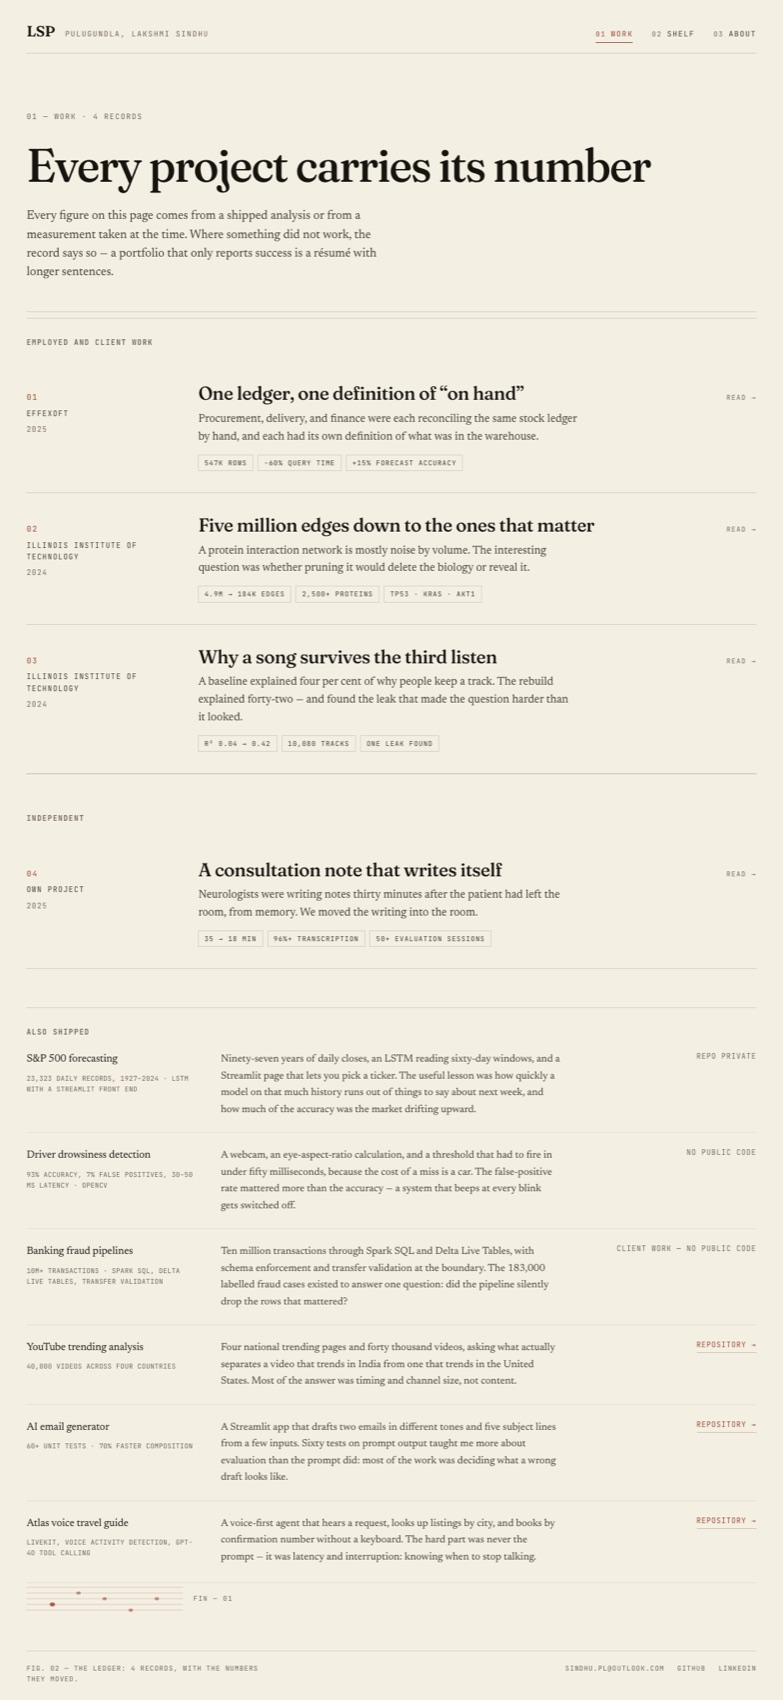
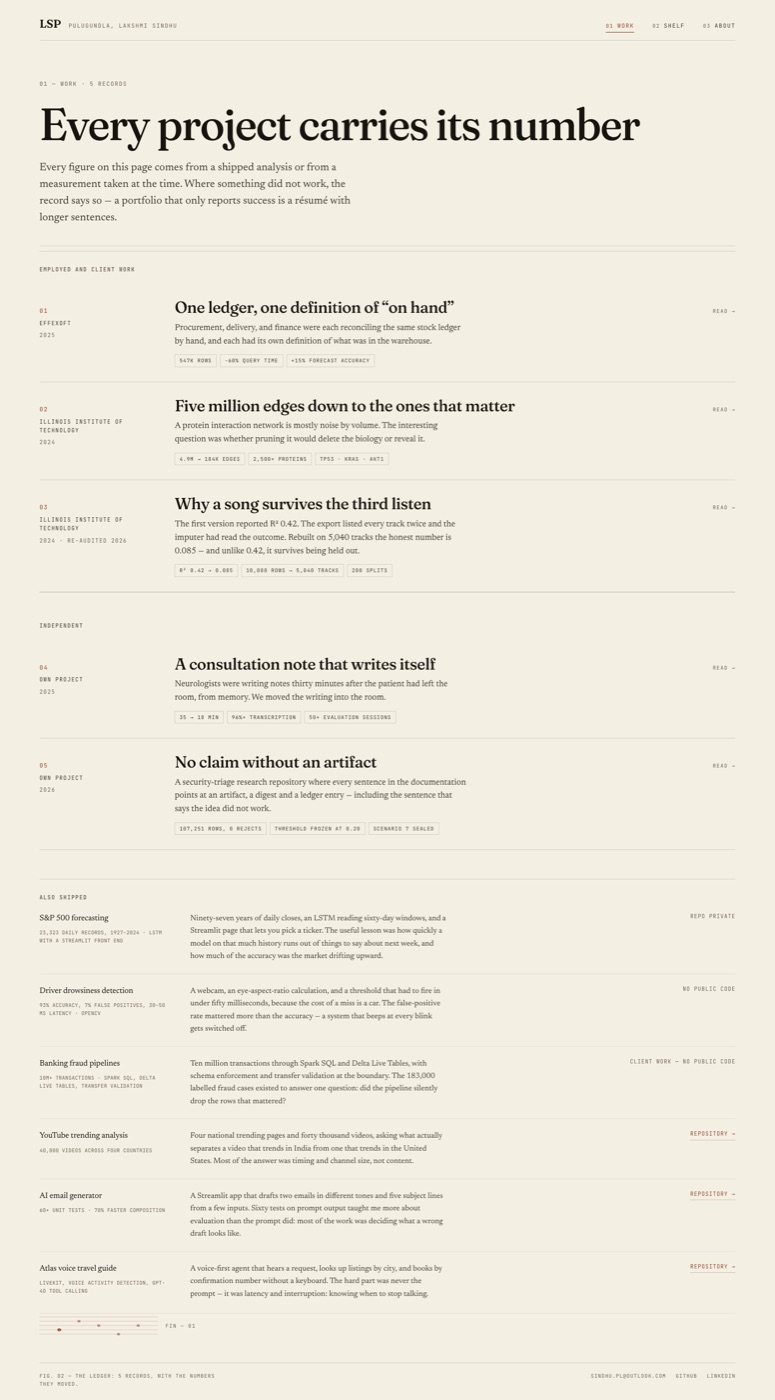
content: correct the Spotify record, add ClueLattice, show the ledger count
Two records were checked against their own repositories and did not survive
contact.

The Spotify page claimed R² 0.42 and 10,080 tracks. The repository's corrected
re-analysis shows 10,080 *rows* for 5,040 distinct tracks (a non-unique join
listed every track twice), R² ≈ 0.085, and a held-out mean of 0.05 over 200
splits — the 0.42 was the leaky number, and 'it does not predict at all' was a
scale artefact on the raw millisecond response. The record now tells that story
instead of the flattering one.

ClueLattice is added as record 05 under Independent: a security-triage research
repository whose strongest result is a refuted hypothesis, with the claim ledger
and sealed holdout as the substance rather than an afterthought.

Also fixes the record counter, which hard-coded 'of 04' and printed
'Record 05 / 04' on a five-record ledger.

diff --git a/src/data/records.ts b/src/data/records.ts
@@ -107,33 +107,33 @@ export const records: WorkRecord[] = [
     title: 'Why a song survives the third listen',
     org: 'Illinois Institute of Technology',
     place: 'Chicago',
-    period: '2024',
-    role: 'Regression modelling coursework, extended',
-    deck: 'A baseline explained four per cent of why people keep a track. The rebuild explained forty-two — and found the leak that made the question harder than it looked.',
-    chips: ['R² 0.04 → 0.42', '10,080 tracks', 'one leak found'],
+    period: '2024 · re-audited 2026',
+    role: 'Regression coursework, then its own audit',
+    deck: 'The first version reported R² 0.42. The export listed every track twice and the imputer had read the outcome. Rebuilt on 5,040 tracks the honest number is 0.085 — and unlike 0.42, it survives being held out.',
+    chips: ['R² 0.42 → 0.085', '10,080 rows → 5,040 tracks', '200 splits'],
     figures: [
-      { value: '0.04', label: 'R² of the first, untransformed model' },
-      { value: '0.42', label: 'R² after transformation, interactions, and shrinkage' },
-      { value: '10,080', label: 'tracks in the working sample' },
+      { value: '0.085', label: 'R² of the rebuilt model: audio, genre and artist' },
+      { value: '0.05', label: 'mean held-out R² across 200 random splits' },
+      { value: '0.26', label: 'percentage points the three audio attributes add' },
     ],
     situation: [
-      'The dataset had ten thousand tracks and the audio features every streaming platform exposes: danceability, energy, tempo, valence, acousticness, plus artist and genre metadata. Engagement was the target.',
-      'The first model was a straight OLS on raw features. It explained four per cent of variance, which is the correct answer to the wrong question.',
+      'Ten thousand rows of Spotify song attributes — danceability, energy, tempo, valence, plus artist and genre — and one target: how long a track actually gets played, stored as cumulative milliseconds.',
+      'The first version reported R² 0.42 from a transformed OLS with interactions and shrinkage. It looked like a good result, which is exactly why it took a year to go back and check it.',
     ],
     work: [
-      'Log-transformed the skewed target, added interactions between energy and tempo and between artist popularity and genre, then moved to Ridge and Lasso with cross-validated shrinkage so the interaction terms earned their place.',
-      'Then diagnostics rather than more features: residual plots by genre, leverage points by artist, and a hard look at what “popular” actually encodes.',
+      'Audited the file before modelling it. Every track appeared exactly twice, identical in all 22 columns, because the rows had been joined on a non-unique key: 10,080 rows for 5,040 tracks. The imputer was worse — the KNN pass had been fitted over all 22 columns including the outcome, so 550 rows had been filled from their own target.',
+      'Rebuilt without imputation: 275 tracks missing audio features are excluded from the audio models and checked with an indicator model instead of being filled with invented values. Response on a log10 scale, predictors in natural units, effects reported per standard deviation, HC3 errors alongside the classical ones.',
     ],
     moved: [
-      'R² went from 0.04 to 0.42. Genre, artist popularity, tempo, and energy were the stable predictors across folds.',
-      'The more useful result was the leak: artist popularity is downstream of the outcome. A track is popular because people play it, so the model was partly predicting the thing it was trying to explain.',
+      'R² fell to 0.085 — and, unlike 0.42, it holds: over 200 random 70/30 splits the mean held-out R² is 0.05. Genre and artist carry 8.3 of those points and each adds over the other; the three audio attributes contribute 0.26 points, detectable at p = 0.004 and not clearly positive out of sample.',
+      'Splitting the response into its two behavioural margins changed the reading: energy raises the odds of being skipped by 1.22 per standard deviation, while among tracks played at least once its coefficient flips sign. Which of those is “the effect of energy” is a choice of question, not a fact about the data.',
     ],
     hard: [
-      'Once you remove the leak, the audio features explain much less — which is the honest finding and also the less quotable one.',
-      'The outliers were more interesting than the fit: tracks that are structurally ordinary and still get returned to.',
-      'Everything here is observational. It measures what correlates with repetition, not what causes it.',
+      'The old “the model does not predict at all” claim was wrong too, for a duller reason: on the raw millisecond scale the identical specification averages −0.024, negative in 82% of splits, because a handful of enormous values dominate squared error.',
+      'Unpruned, the same design reaches R² 0.57 — almost all of it 2,187 artist dummies fitted to 4,765 tracks — and scores worse than predicting the mean on held-out data. That is the number a leaderboard would have rewarded.',
+      'None of it is causal, and the information the file does not contain is the context: mood, device, playlist position, and who is listening.',
     ],
-    stack: ['R', 'Python', 'Ridge / Lasso', 'Regression diagnostics', 'Cross-validation'],
+    stack: ['R', 'RMarkdown', 'Robust standard errors', 'Specification curve', 'Leakage audit'],
     repo: { label: 'Enhanced-Spotify-Attribute-Analysis', url: 'https://github.com/Lakshmi-Sindhu-P/Enhanced-Spotify-Attribute-Analysis' },
   },
   {
@@ -170,6 +170,43 @@ export const records: WorkRecord[] = [
       'Evaluation needs the people whose work you are changing. A dashboard that says 96% is not the same as a neurologist saying it sounds like her.',
     ],
     stack: ['FastAPI', 'Medical ASR', 'LLM summarisation', 'PostgreSQL', 'Role-based access control', 'Evaluation design'],
+  },
+  {
+    slug: 'cluelattice',
+    index: '05',
+    group: 'independent',
+    title: 'No claim without an artifact',
+    org: 'Independent project',
+    place: 'Chicago',
+    period: '2026',
+    role: 'Design, build, evaluation',
+    deck: 'A security-triage research repository where every sentence in the documentation points at an artifact, a digest and a ledger entry — including the sentence that says the idea did not work.',
+    chips: ['107,251 rows, 0 rejects', 'threshold frozen at 0.20', 'scenario 7 sealed'],
+    figures: [
+      { value: '107,251', label: 'CTU-13 flows accepted with zero rejected rows' },
+      { value: '0.20', label: 'alert threshold frozen before the final measurement' },
+      { value: '0/9', label: 'reviewer budgets where uncertainty routing beat model score' },
+    ],
+    situation: [
+      'Security teams do not run out of alerts, they run out of reasons to believe one. The question I set was whether a provenance-first system — deterministic rules, supervised models, temporal features, and later an advisory LLM — could hand a junior reviewer a recommendation that separates what is observed, what is inferred, and what the telemetry simply does not support.',
+      'The constraint came before the code: no claim may exist without an artifact that backs it, and a claim that fails its own check stays in the ledger with the refutation attached.',
+    ],
+    work: [
+      'Built the bottom half of that system in Python 3.12 on a locked environment: two source adapters (IoT-23 Zeek, CTU-13 Argus) emitting typed canonical events, deterministic UUIDv5 identities, quality reports and checksum-backed dataset manifests — 107,251 rows accepted from Scenario 11 with zero rejects.',
+      'Three feature generations under a leakage contract — 26 flow columns, a scenario-local behavioral family, and a prior-only causal family — each frozen before comparison, with a sealed-scenario guard so the holdout could not be used for tuning.',
+      'A validation-only benchmark across rules, logistic regression, random forest, extra trees, histogram gradient boosting and a linear SVM, then a 450-policy simulated reviewer sweep. A results ledger is generated from JSON and machine-checked against an experiment registry, so the build fails if a claim drifts from its citation.',
+    ],
+    moved: [
+      'The useful result was negative: ranking alerts by model score retrieved at least as many true positives as threshold-distance “uncertainty” routing at zero of nine reviewer budgets, on all six stage-1 captures. A plausible idea, tested properly, and written down as refuted.',
+      'The causal feature family cut the cases both models missed from 68,353 to 64,986 — 4.9%, concentrated in one subgroup — and no single operating point improved. It is recorded as a localized hypothesis, not promoted into the policy.',
+    ],
+    hard: [
+      'Unknown-label rows dominate a real capture, and excluding them from supervised metrics shrinks the sample every claim rests on. Saying so costs headline numbers, which is the reason to say it.',
+      'The sealed scenario can be opened exactly once, so every experiment that touches it spends something that cannot be replaced.',
+      'The parts that would make it operational — finding aggregation, evidence retrieval, LLM triage, the human review tier — are planned and documented, not implemented. The repository says that in its first table rather than its last paragraph.',
+    ],
+    stack: ['Python 3.12', 'Pydantic', 'Parquet / DuckDB', 'scikit-learn', 'pytest', 'mypy', 'CI'],
+    repo: { label: 'ClueLattice', url: 'https://github.com/Lakshmi-Sindhu-P/ClueLattice' },
   },
 ];
 

diff --git a/src/data/profile.ts b/src/data/profile.ts
@@ -23,7 +23,7 @@ export const profile = {
 export const headlineMetrics = [
   { value: '−60%', label: 'inventory query time', note: '547K-row pipeline' },
   { value: '4.9M→184K', label: 'protein edges pruned', note: 'NSCLC network' },
-  { value: '0.04→0.42', label: 'R² on engagement', note: '10,080 tracks' },
+  { value: '0.085', label: 'R² after the leakage audit', note: '5,040 distinct tracks' },
 ] as const;
 
 export const positioning = `I build analytics systems that people actually use: pipelines with a named owner,
@@ -92,7 +92,7 @@ export const projects: Project[] = [
     year: '2024',
     outcome:
       'A baseline that explained 4% of engagement variance, rebuilt until it explained 42% — and a clear answer about which audio features matter.',
-    metrics: ['R² 0.04→0.42', '10,080 tracks'],
+    metrics: ['R² 0.42 → 0.085', '10,080 rows → 5,040 tracks'],
     method:
       'Log-transformed targets, interaction terms, and Ridge/Lasso regularisation with cross-validated shrinkage. Genre, artist popularity, tempo, and energy were the stable predictors; the outliers were more interesting than the fit.',
     stack: ['R', 'Python', 'Ridge / Lasso', 'Regression diagnostics'],

diff --git a/README.md b/README.md
@@ -37,7 +37,7 @@ Node 22+ is required (Astro 7). In this workspace `~/.npm` is not writable, so b
 | Route | What it is |
 | --- | --- |
 | `/` | The cover: a four-line statement, a staff of points, four doors |
-| `/work/` | The ledger — three employed/client records, then independent projects, then the smaller shipped work |
+| `/work/` | The ledger — three employed/client records, then two independent projects, then the smaller shipped work |
 | `/work/<slug>/` | One record: situation, what I did, what it moved, what stayed hard |
 | `/shelf/` | Singing, mythology and folklore, side projects and the learning log |
 | `/about/` | The four sentences unpacked, how I work, history, contact |
@@ -57,7 +57,10 @@ Node 22+ is required (Astro 7). In this workspace `~/.npm` is not writable, so b
 | Swap the résumé PDF | replace `public/resume.pdf` |
 | Change the name in the header or footer | `src/layouts/Paper.astro` |
 
-Every figure on the site comes from the résumé; the case-study prose was written from the work that
+Every figure on the site comes from the résumé or from the repository a record links to. Two records
+were re-audited in October 2026 after their public READMEs turned out to contradict the résumé line:
+the Spotify regression (`R² 0.42 → 0.085`, 5,040 distinct tracks) and the CTU-13 triage ledger. Both
+pages now state the corrected number and what displaced the old one. The case-study prose was written from the work that
 produced those figures. A number appears in two places — the ledger chip and the record's figures —
 so change both.
 
